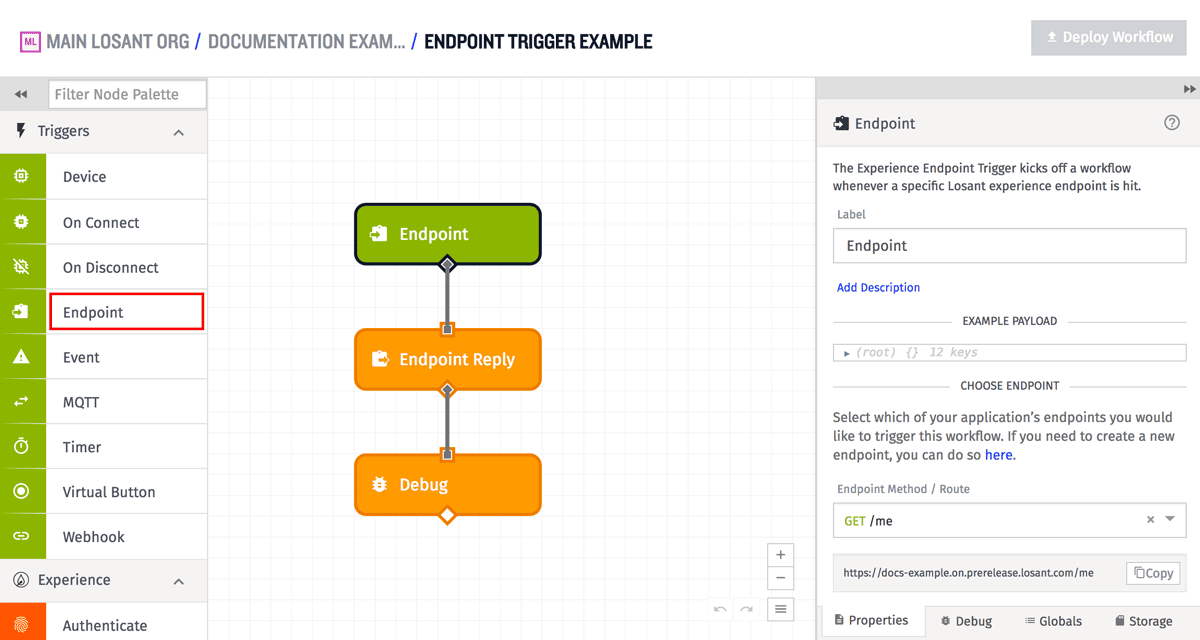
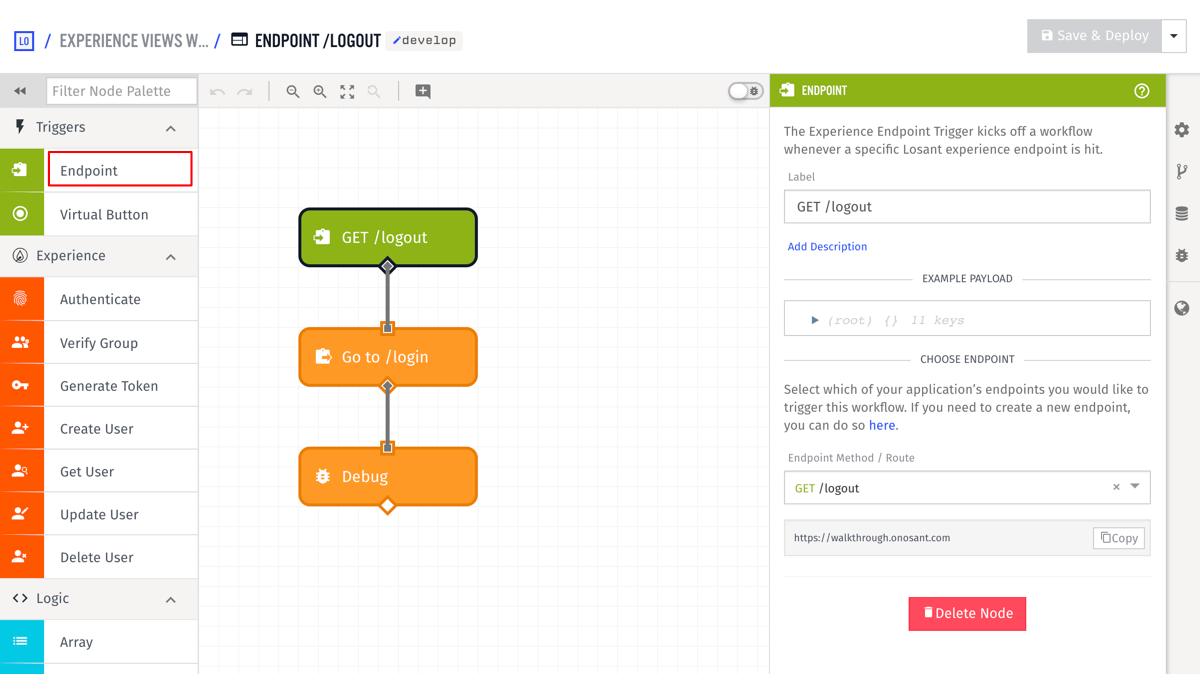
updated endpoint trigger docs

diff --git a/docs/workflows/triggers/endpoint.md b/docs/workflows/triggers/endpoint.md
@@ -4,23 +4,27 @@ description: Learn more about the Losant Endpoint Trigger.
 
 # Experience Endpoint Trigger
 
-The Endpoint Trigger will trigger a workflow when the selected endpoint receives a request.
+The Endpoint Trigger will trigger a workflow when the selected endpoint receives a request. It can be used in both cloud and experience workflows, although the configuration differs slightly between the two.
 
 ![Endpoint Trigger](/images/workflows/triggers/endpoint-trigger.png "Endpoint Trigger")
 
 ## Configuration
 
-The configuration for the Endpoint Trigger is relatively simple - just choose an endpoint that has been set up for the application as described in the [endpoint documentation](/experiences/endpoints/).
+The configuration for the Endpoint Trigger for an experience workflow is relatively simple - just choose an endpoint that has been set up for the application as described in the [endpoint documentation](/experiences/endpoints/).
 
-![Endpoint Trigger Config](/images/workflows/triggers/endpoint-trigger-config.png "Endpoint Trigger Config")
+![Endpoint Trigger Config Experience Workflow](/images/workflows/triggers/endpoint-trigger-config.png "Endpoint Trigger Config Experience Workflow")
 
-In the above example, the workflow will be triggered whenever the "GET /me" endpoint receives a request.
+In the above example, the workflow will be triggered whenever the "GET /logout" endpoint receives a request.
+
+The configuration for the Endpoint Trigger for a cloud workflow is slightly more complicated. Because cloud workflows are not versioned with your experience, you will need to select the version of your experience you want to use. By default this is the `develop` version:
+
+![Endpoint Trigger Config Application Workflow](/images/workflows/triggers/endpoint-trigger-config-app-flow.png "Endpoint Trigger Config Application Workflow")
 
 ## Payload
 
 The payload for a workflow triggered by an endpoint will include all of the information about the triggering request in the `data` field. This includes the request path, the request method, any request headers, any request query parameters, any parsed path parameters (based off the route definition for the endpoint), any cookies, and the request body. If there is no body present, the value for the body field will be `null`. Otherwise, if the content type is `multipart/form-data`, `application/x-www-form-urlencoded`, or `application/json` and the request body is valid for that content type, it will automatically be parsed into an object. For other content types, such as `text/plain`, the body will be left as a string.
 
-The payload will also contain an `experience` field, which will contain two properties - `endpoint` and `user`. The `endpoint` property will always be the Experience Endpoint that received the request. The `user` property can either be the Experience User making the request, or `null` if it was a public unauthenticated request.
+The payload will also contain an `experience` field, which will contain three properties - `endpoint`, `user`, and `version`. The `endpoint` property will always be the Experience Endpoint that received the request. The `user` property can either be the Experience User making the request, or `null` if it was a public unauthenticated request. The `version` property will contain the name of the experience version for the request.
 
 In the general case, an endpoint workflow payload will look like the following:
 
@@ -39,7 +43,8 @@ In the general case, an endpoint workflow payload will look like the following:
   },
   "experience": {
     "endpoint": <the experience endpoint that received the request>,
-    "user": <the experience user (if an authenticated request)>
+    "user": <the experience user (if an authenticated request)>,
+    "version": <the experience version for the request>
   },
   "applicationId": <id of the current application>,
   "applicationName": <name of the current application>,
@@ -73,6 +78,7 @@ For the example workflow above, a specific payload for a triggered workflow migh
   "triggerId": "58dc4ecf9e8df60001fbea08",
   "triggerType": "endpoint",
   "experience": {
+    "version": "develop",
     "endpoint": {
       "method": "get",
       "route": "/me",
